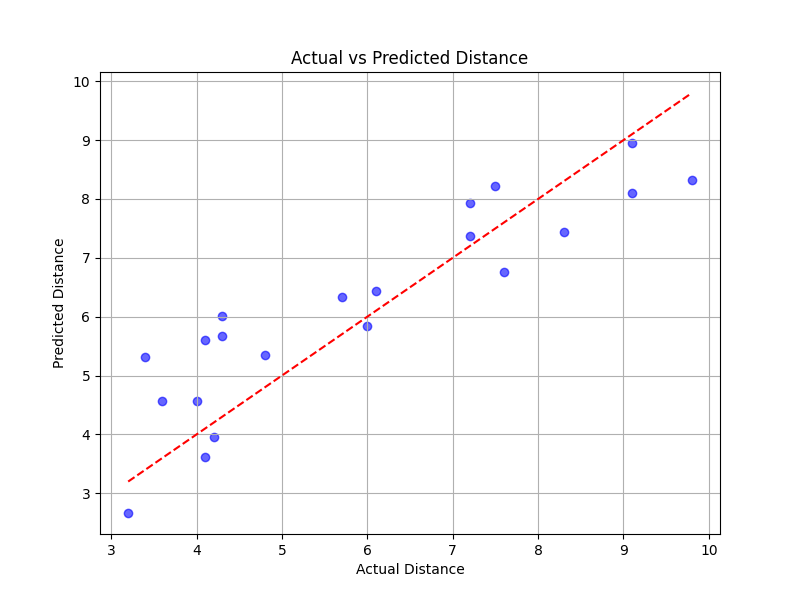
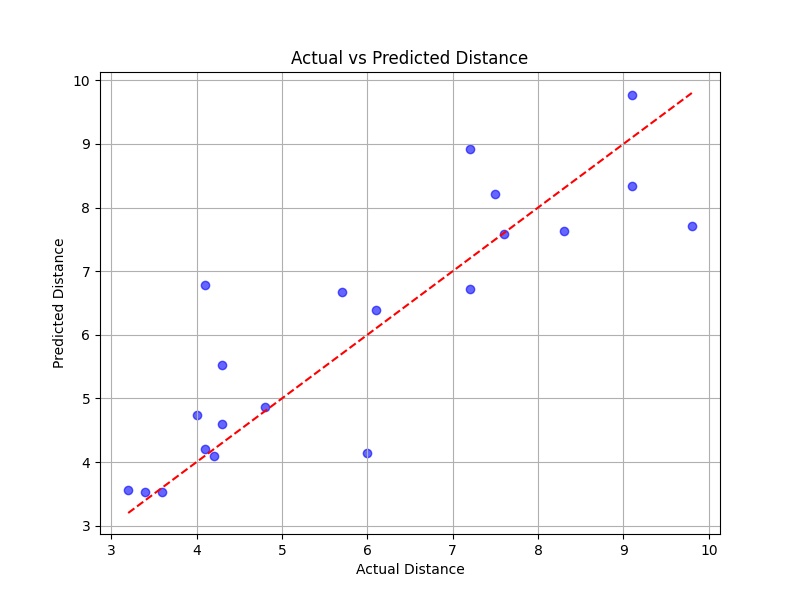
started working on developing MLP model

diff --git a/scripts/train_mlp.py b/scripts/train_mlp.py
@@ -1,0 +1,155 @@
+from ultralytics import YOLO
+from sklearn.neural_network import MLPRegressor
+from sklearn.model_selection import train_test_split
+from sklearn.preprocessing import StandardScaler
+from sklearn.metrics import r2_score, mean_absolute_error, mean_squared_error
+
+import matplotlib.pyplot as plt
+import numpy as np
+import json
+import os
+import csv
+import cv2
+from mpl_toolkits.mplot3d import Axes3D
+
+
+# Initialize model and other variables
+data = []
+data_file = './data/softball_data.csv'
+yolo_model = YOLO("./models/yolo/yolo11l.pt")
+
+
+def load_calibration(calibration_file="calibration_data.json"):
+    """Loads camera calibration data from a JSON file."""
+    with open(calibration_file, 'r') as f:
+        calibration_data = json.load(f)
+
+    return np.array(calibration_data["mtx"]), np.array(calibration_data["dist"])
+
+
+def undistort_image(image, camera_matrix, dist_coeffs):
+    """Undistorts an image using preloaded calibration data."""
+    return cv2.undistort(image, camera_matrix, dist_coeffs)
+
+
+def load_data():
+    if os.path.exists(data_file):
+        with open(data_file, 'r') as file:
+            reader = csv.reader(file)
+            for row in reader:
+                row.pop()  # Remove the last column (snapshot id)
+                data.append(tuple(map(float, row)))
+        print(f"Loaded {len(data)} data points from {data_file}.")
+    else:
+        print("No data file found. Starting fresh.")
+
+
+def split_data():
+    data_np = np.array(data)
+    X = np.column_stack(
+        (data_np[:, 0], data_np[:, 1], data_np[:, 2]))  # x, y, radius
+    y = data_np[:, 3]  # distance
+
+    X_train, X_test, y_train, y_test = train_test_split(
+        X, y, test_size=0.2, random_state=42)
+
+    return X_train, X_test, y_train, y_test
+
+
+def scale_data(X_train, X_test):
+    scaler = StandardScaler()
+    X_train_scaled = scaler.fit_transform(X_train)
+    X_test_scaled = scaler.transform(X_test)
+
+    return X_train_scaled, X_test_scaled
+
+
+def main():
+    mlp = MLPRegressor(hidden_layer_sizes=(30, 20, 20, 10, 5), activation='relu',
+                       solver='adam', max_iter=2500, random_state=42)
+    load_data()
+    X_train, X_test, y_train, y_test = split_data()
+    X_train_scaled, X_test_scaled = scale_data(X_train, X_test)
+
+    mlp.fit(X_train_scaled, y_train)
+
+    # Predict manually
+    y_pred = mlp.predict(X_test_scaled)
+    errors = y_pred - y_test
+
+    r2 = r2_score(y_test, y_pred)
+    mae = mean_absolute_error(y_test, y_pred)
+    rmse = mean_squared_error(y_test, y_pred) ** 0.5
+
+    print(f"R² score: {r2:.4f}")
+    print(f"Mean Absolute Error (MAE): {mae:.4f} meters")
+    print(f"Root Mean Squared Error (RMSE): {rmse:.4f} meters")
+
+    # Plotting histogram of absolute errors
+    absolute_errors = np.abs(errors)
+    plt.figure(figsize=(8, 6))
+    plt.hist(absolute_errors, bins=20, color='lightgreen', edgecolor='black')
+    plt.title("Histogram of Absolute Prediction Errors")
+    plt.xlabel("Absolute Prediction Error (m)")
+    plt.ylabel("Frequency")
+    plt.grid(True)
+    plt.tight_layout()
+    plt.savefig("histogram_absolute_prediction_errors.png")
+    plt.show()
+
+    # Plotting predicted vs actual
+    plt.figure(figsize=(8, 6))
+    plt.scatter(y_test, y_pred, c='blue', alpha=0.6)
+    plt.plot([min(y_test), max(y_test)], [min(y_test),
+             max(y_test)], color='red', linestyle='--')
+    plt.xlabel("Actual Distance")
+    plt.ylabel("Predicted Distance")
+    plt.title("Actual vs Predicted Distance")
+    plt.grid(True)
+    plt.savefig("distance_prediction_plot.png")
+    plt.show()
+
+    # Plotting residuals
+    plt.scatter(y_test, y_pred - y_test)
+    plt.axhline(0, color='red', linestyle='--')
+    plt.xlabel("Actual Distance")
+    plt.ylabel("Residual (Predicted - Actual)")
+    plt.title("Residual Plot")
+    plt.grid(True)
+    plt.savefig("residual_plot.png")
+    plt.show()
+
+    data_np = np.array(data)
+    u = data_np[:, 0]
+    v = data_np[:, 1]
+
+    radius_levels = [5, 10, 15, 20]  # Choose 3 meaningful ball sizes
+    u_range = np.linspace(min(u), max(u), 30)
+    v_range = np.linspace(min(v), max(v), 30)
+    u_grid, v_grid = np.meshgrid(u_range, v_range)
+
+    fig = plt.figure(figsize=(14, 10))
+    ax = fig.add_subplot(111, projection='3d')
+
+    for r_fixed in radius_levels:
+        X_features = np.column_stack((
+            u_grid.ravel(), v_grid.ravel(), np.full(u_grid.size, r_fixed)
+        ))
+        Z_pred = mlp.predict(X_features).reshape(u_grid.shape)
+        print(f"Predicting for radius: {r_fixed}, distnce shape: {Z_pred}")
+        ax.plot_surface(u_grid, v_grid, Z_pred, alpha=0.7,
+                        label=f"r={r_fixed}", cmap='viridis')
+        ax.text(u_grid[0, -1], v_grid[-1, 0], Z_pred[-1, -1],
+                f"r={r_fixed}", color='black', fontsize=10, weight='bold')
+
+    ax.set_title("Predicted Distance Surface at Fixed Radii")
+    ax.set_xlabel("u (image x-pos)")
+    ax.set_ylabel("v (image y-pos)")
+    ax.set_zlabel("Predicted Distance (m)")
+    plt.tight_layout()
+    plt.savefig("predicted_distance_surface_by_radius.png")
+    plt.show()
+
+
+if __name__ == "__main__":
+    main()

diff --git a/scripts/train_polynomial.py b/scripts/train_polynomial.py
@@ -35,10 +35,6 @@ def load_calibration(calibration_file="calibration_data.json"):
 
 # Constants for physics calculation
 mtx, dist = load_calibration()
-FOCAL_LENGTH_PIXELS = mtx[0, 0]  # f_x from calibration
-REAL_DIAMETER_MM = 111  # mm
-FOCAL_LENGTH_MM = 3.6  # ASSUMED, APPLE DOES NOT PROVIDE THIS
-PIXEL_SIZE_MM = FOCAL_LENGTH_MM / FOCAL_LENGTH_PIXELS
 
 
 def undistort_image(image, camera_matrix, dist_coeffs):
